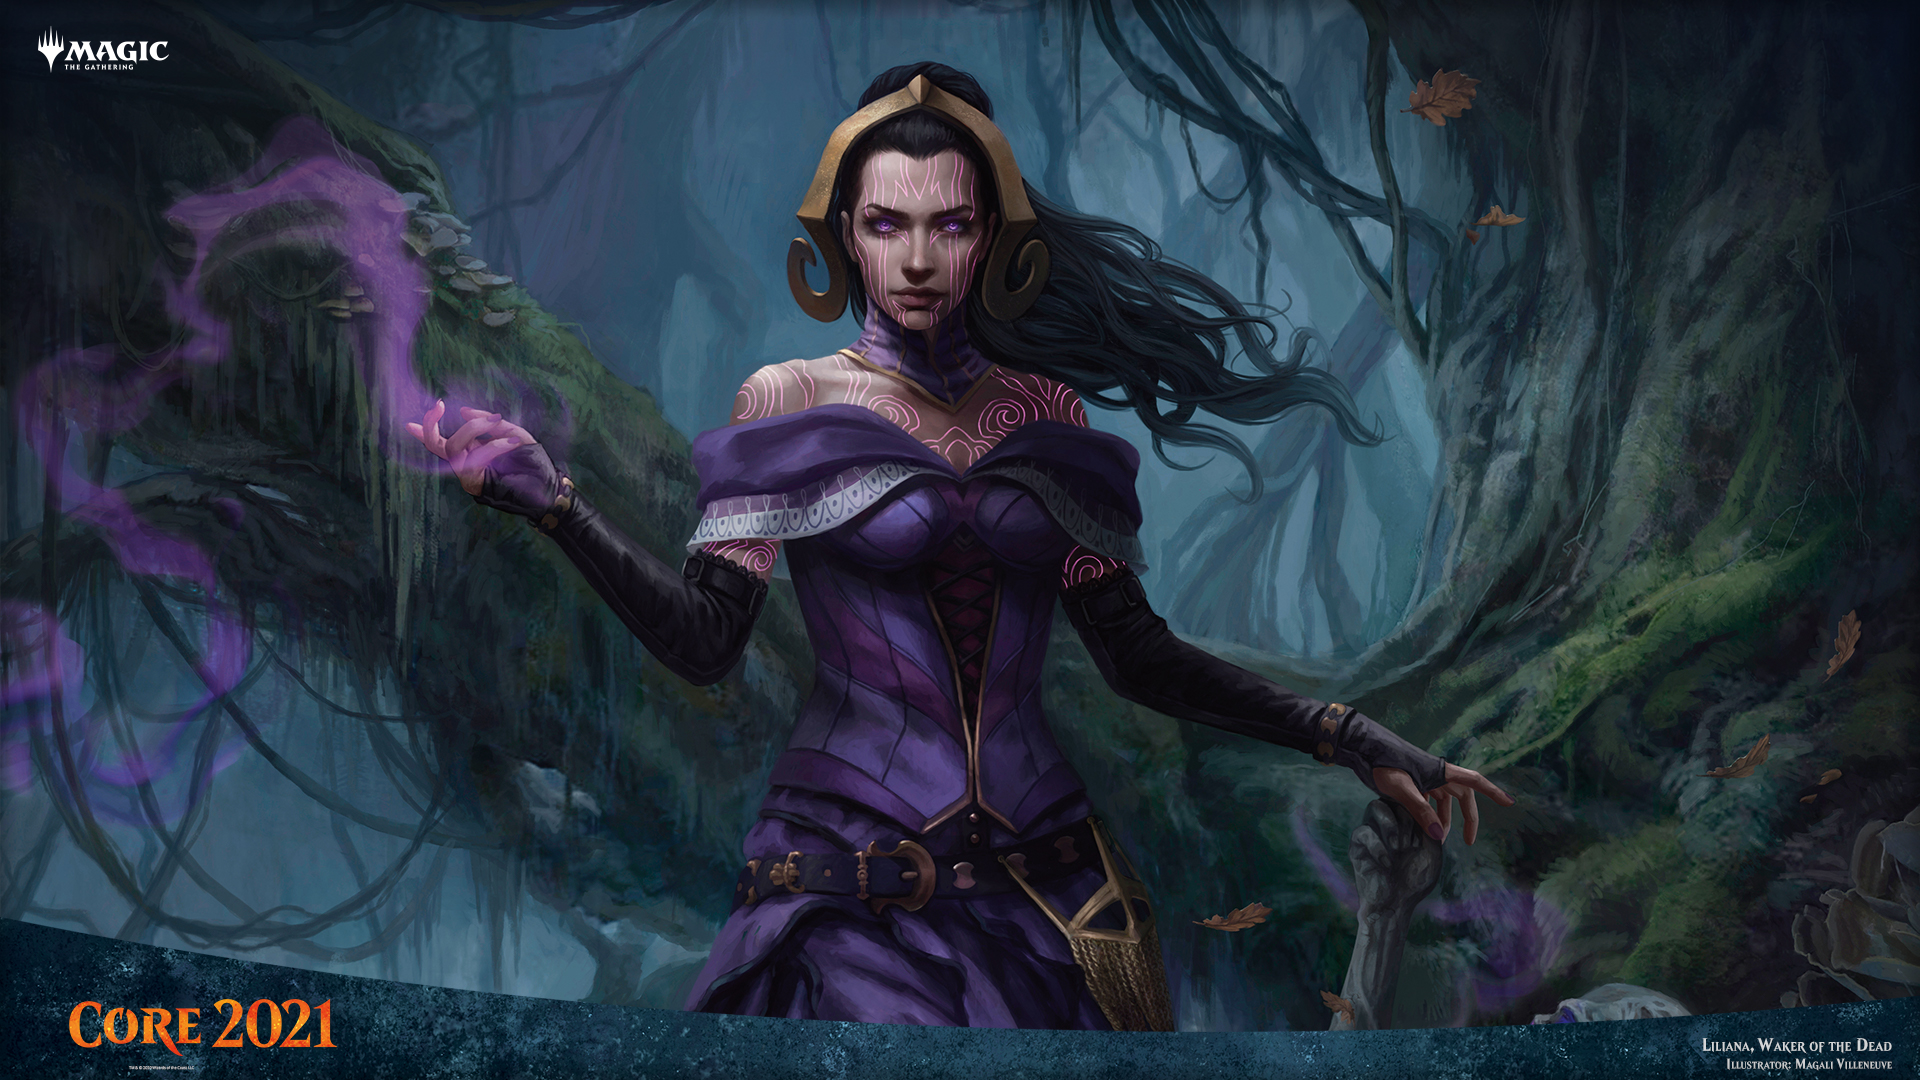
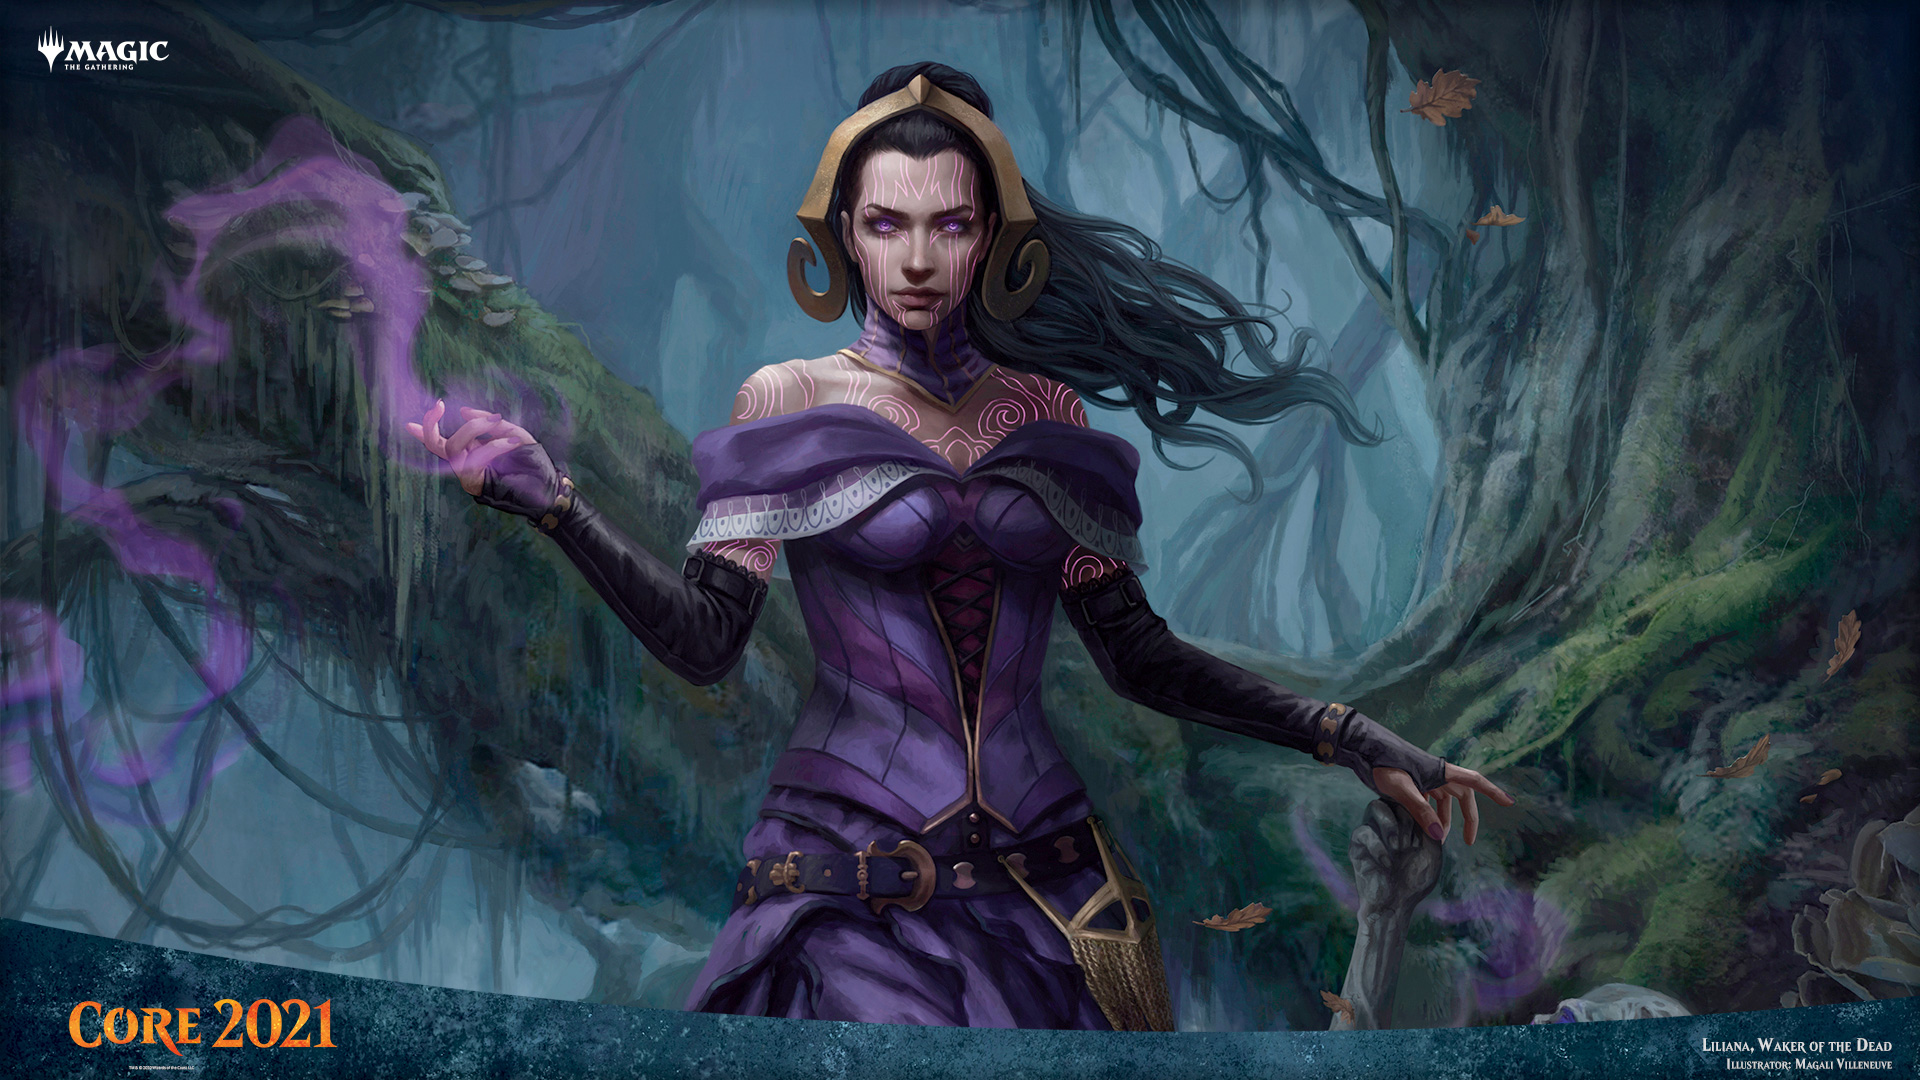
Lightened welcome illustration

diff --git a/src/sass/_page-welcome.scss b/src/sass/_page-welcome.scss
@@ -16,7 +16,7 @@
 		width: 100%;
 		height: auto;
 		margin: 0 auto;
-		background: #28333f; // Illustration's average color.
+		background: #32404e; // The illustration's average color.
 		min-width: $min-width-site;
 	}
 	.text-box {
@@ -34,9 +34,6 @@
 		h2 {
 			font-size: 125%;
 			margin-top: $lhse/2;
-		}
-		strong i {
-			font-family: $font-family-standard;
 		}
 	}
 }
